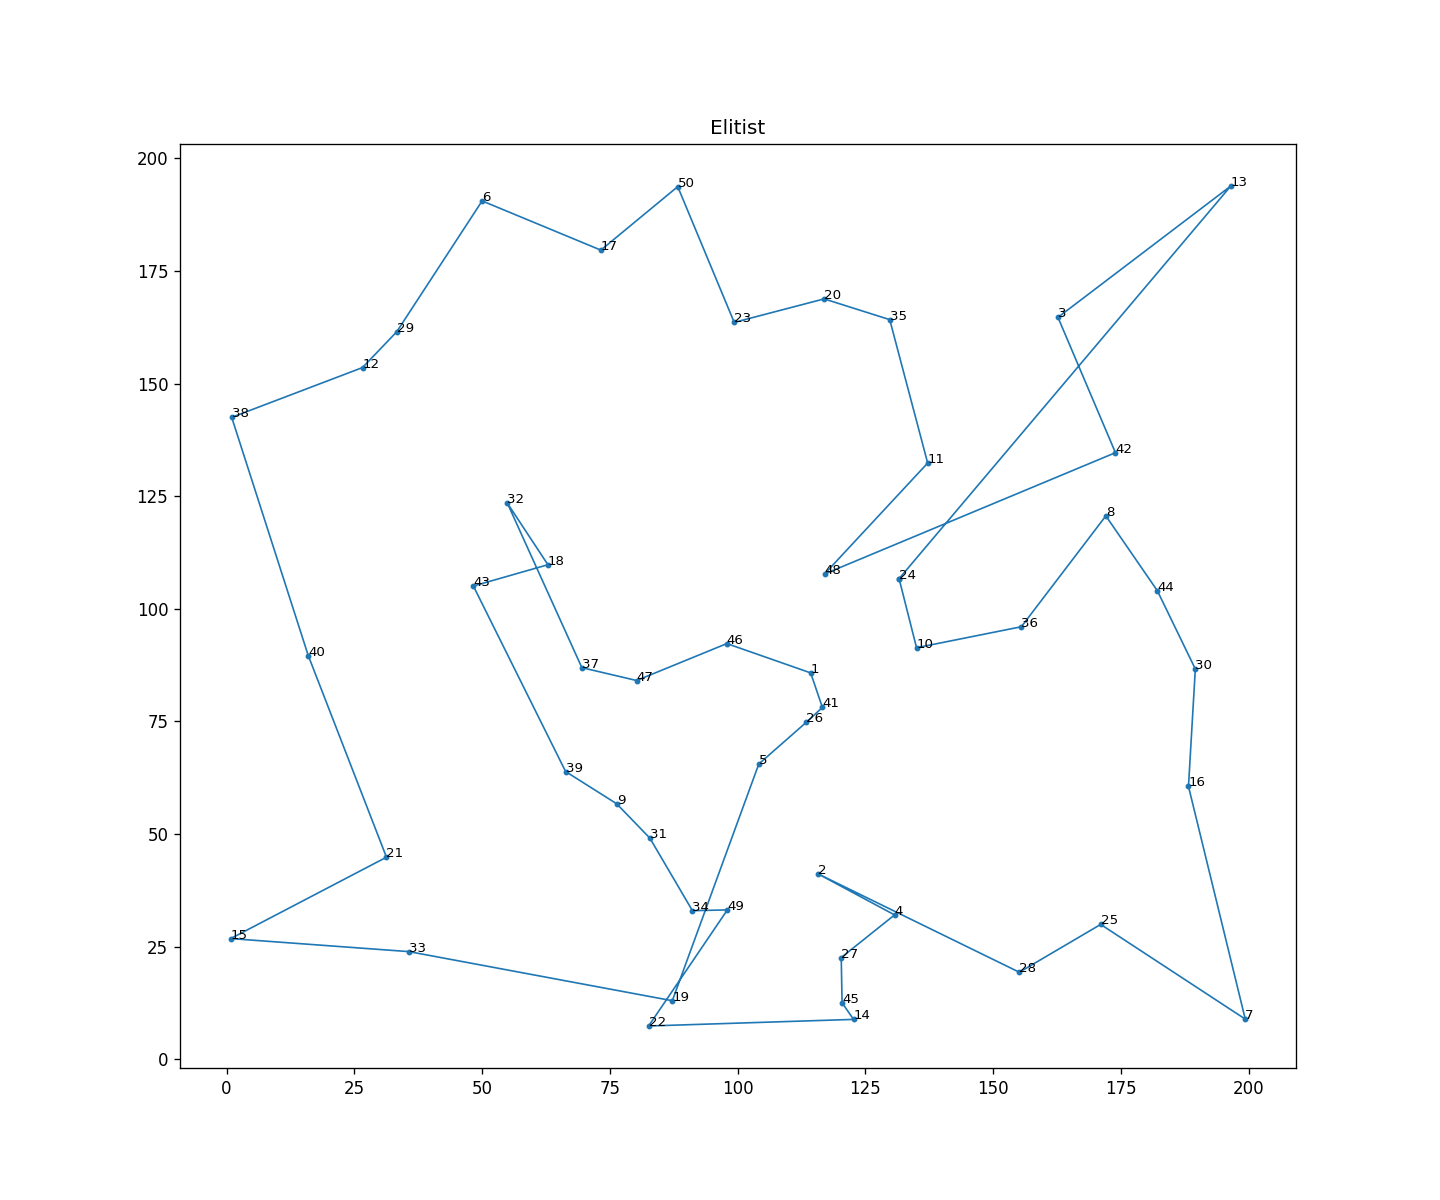
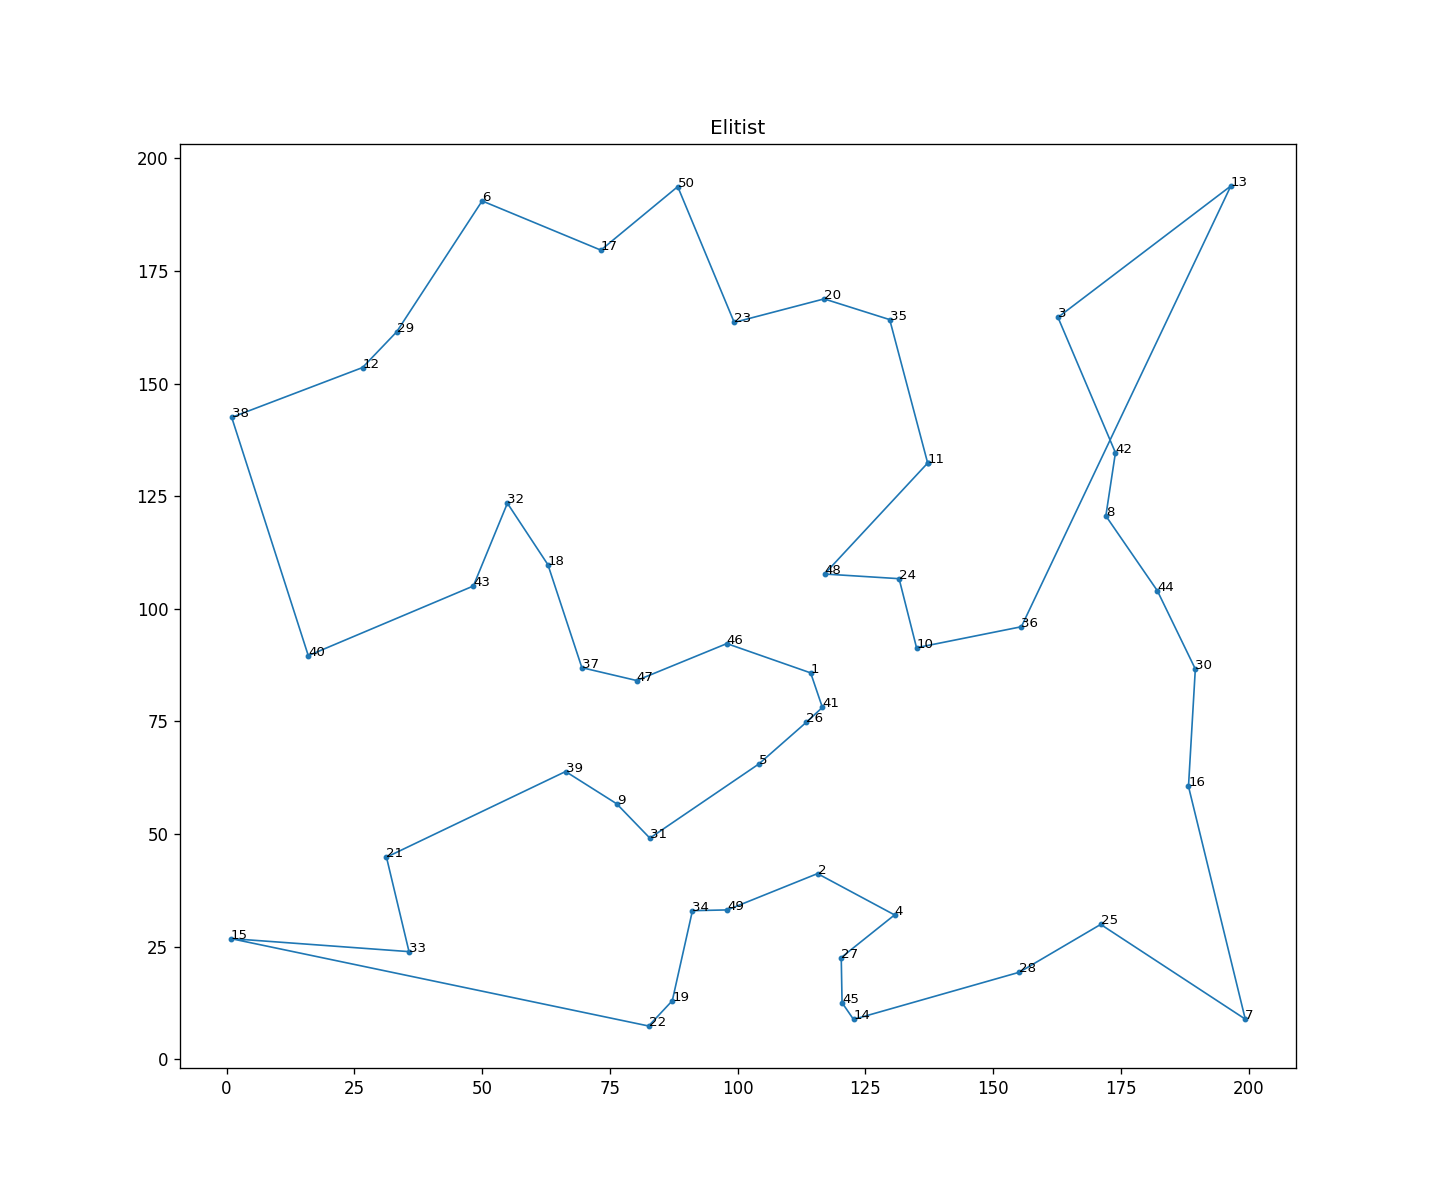
update the code

diff --git a/aco_tsp.py b/aco_tsp.py
@@ -110,9 +110,9 @@ class SolveTSPUsingACO:
 
         for step in range(self.steps):
             # 更新全局信息素
-            # for i in range(self.num_nodes):
-            #     for j in range(i + 1, self.num_nodes):
-            #         self.edges[i][j].pheromone *= (1.0 - self.rho)
+            for i in range(self.num_nodes):
+                for j in range(i + 1, self.num_nodes):
+                    self.edges[i][j].pheromone *= (1.0 - self.rho)
 
             # 遍历所有个体
             for ant in self.ants:
@@ -124,20 +124,30 @@ class SolveTSPUsingACO:
                     self.global_best_distance = ant.distance
 
             # 更新全局信息素
-            for i in range(self.num_nodes):
-                for j in range(i + 1, self.num_nodes):
-                    self.edges[i][j].pheromone *= (1.0 - self.rho)
+            # for i in range(self.num_nodes):
+            #     for j in range(i + 1, self.num_nodes):
+            #         self.edges[i][j].pheromone *= (1.0 - self.rho)
 
             self.distance_list.append(self.global_best_distance)
 
     def _elitist(self):
+
         for step in range(self.steps):
+
+            # 先挥发
+            # for i in range(self.num_nodes):
+            #     for j in range(i + 1, self.num_nodes):
+            #         self.edges[i][j].pheromone *= (1.0 - self.rho)
+
             for ant in self.ants:
                 self._add_pheromone(ant.find_tour(), ant.get_distance())
                 if ant.distance < self.global_best_distance:
                     self.global_best_tour = ant.tour
                     self.global_best_distance = ant.distance
+
+            # 对最佳路径（精英蚂蚁）进一步增加信息素
             self._add_pheromone(self.global_best_tour, self.global_best_distance, weight=self.elitist_weight)
+
             for i in range(self.num_nodes):
                 for j in range(i + 1, self.num_nodes):
                     self.edges[i][j].pheromone *= (1.0 - self.rho)
@@ -146,14 +156,24 @@ class SolveTSPUsingACO:
 
     def _max_min(self):
         for step in range(self.steps):
+            # 局部最优，每代的结果
             iteration_best_tour = None
             iteration_best_distance = float("inf")
 
             for ant in self.ants:
+                # 解的构建
                 ant.find_tour()
+                # 更新局部最优
                 if ant.get_distance() < iteration_best_distance:
                     iteration_best_tour = ant.tour
                     iteration_best_distance = ant.distance
+
+            # 信息素挥发
+            # for i in range(self.num_nodes):
+            #     for j in range(i + 1, self.num_nodes):
+            #         self.edges[i][j].pheromone *= (1.0 - self.rho)
+
+            # 按照蚁群进化进度来确定更新全局最佳路径还是局部最佳路径
             if float(step + 1) / float(self.steps) <= 0.75:
                 self._add_pheromone(iteration_best_tour, iteration_best_distance)
                 max_pheromone = self.pheromone_deposit_weight / iteration_best_distance
@@ -163,14 +183,17 @@ class SolveTSPUsingACO:
                     self.global_best_distance = iteration_best_distance
                 self._add_pheromone(self.global_best_tour, self.global_best_distance)
                 max_pheromone = self.pheromone_deposit_weight / self.global_best_distance
+
             min_pheromone = max_pheromone * self.min_scaling_factor
+
             for i in range(self.num_nodes):
                 for j in range(i + 1, self.num_nodes):
-                    self.edges[i][j].pheromone *= (1.0 - self.rho)
+                    self.edges[i][j].pheromone *= (1.0 - self.rho)  # 其实是先累加再挥发
                     if self.edges[i][j].pheromone > max_pheromone:
                         self.edges[i][j].pheromone = max_pheromone
                     elif self.edges[i][j].pheromone < min_pheromone:
                         self.edges[i][j].pheromone = min_pheromone
+
             self.distance_list.append(self.global_best_distance)
 
     def run(self):
@@ -220,7 +243,7 @@ class SolveTSPUsingACO:
 if __name__ == '__main__':
     # 蚁群数量
     _colony_size = 5
-    _steps = 100
+    _steps = 200
     random.seed(10)
     _nodes = [(random.uniform(0, 200), random.uniform(0, 200)) for _ in range(0, 50)]
     print(_nodes)
